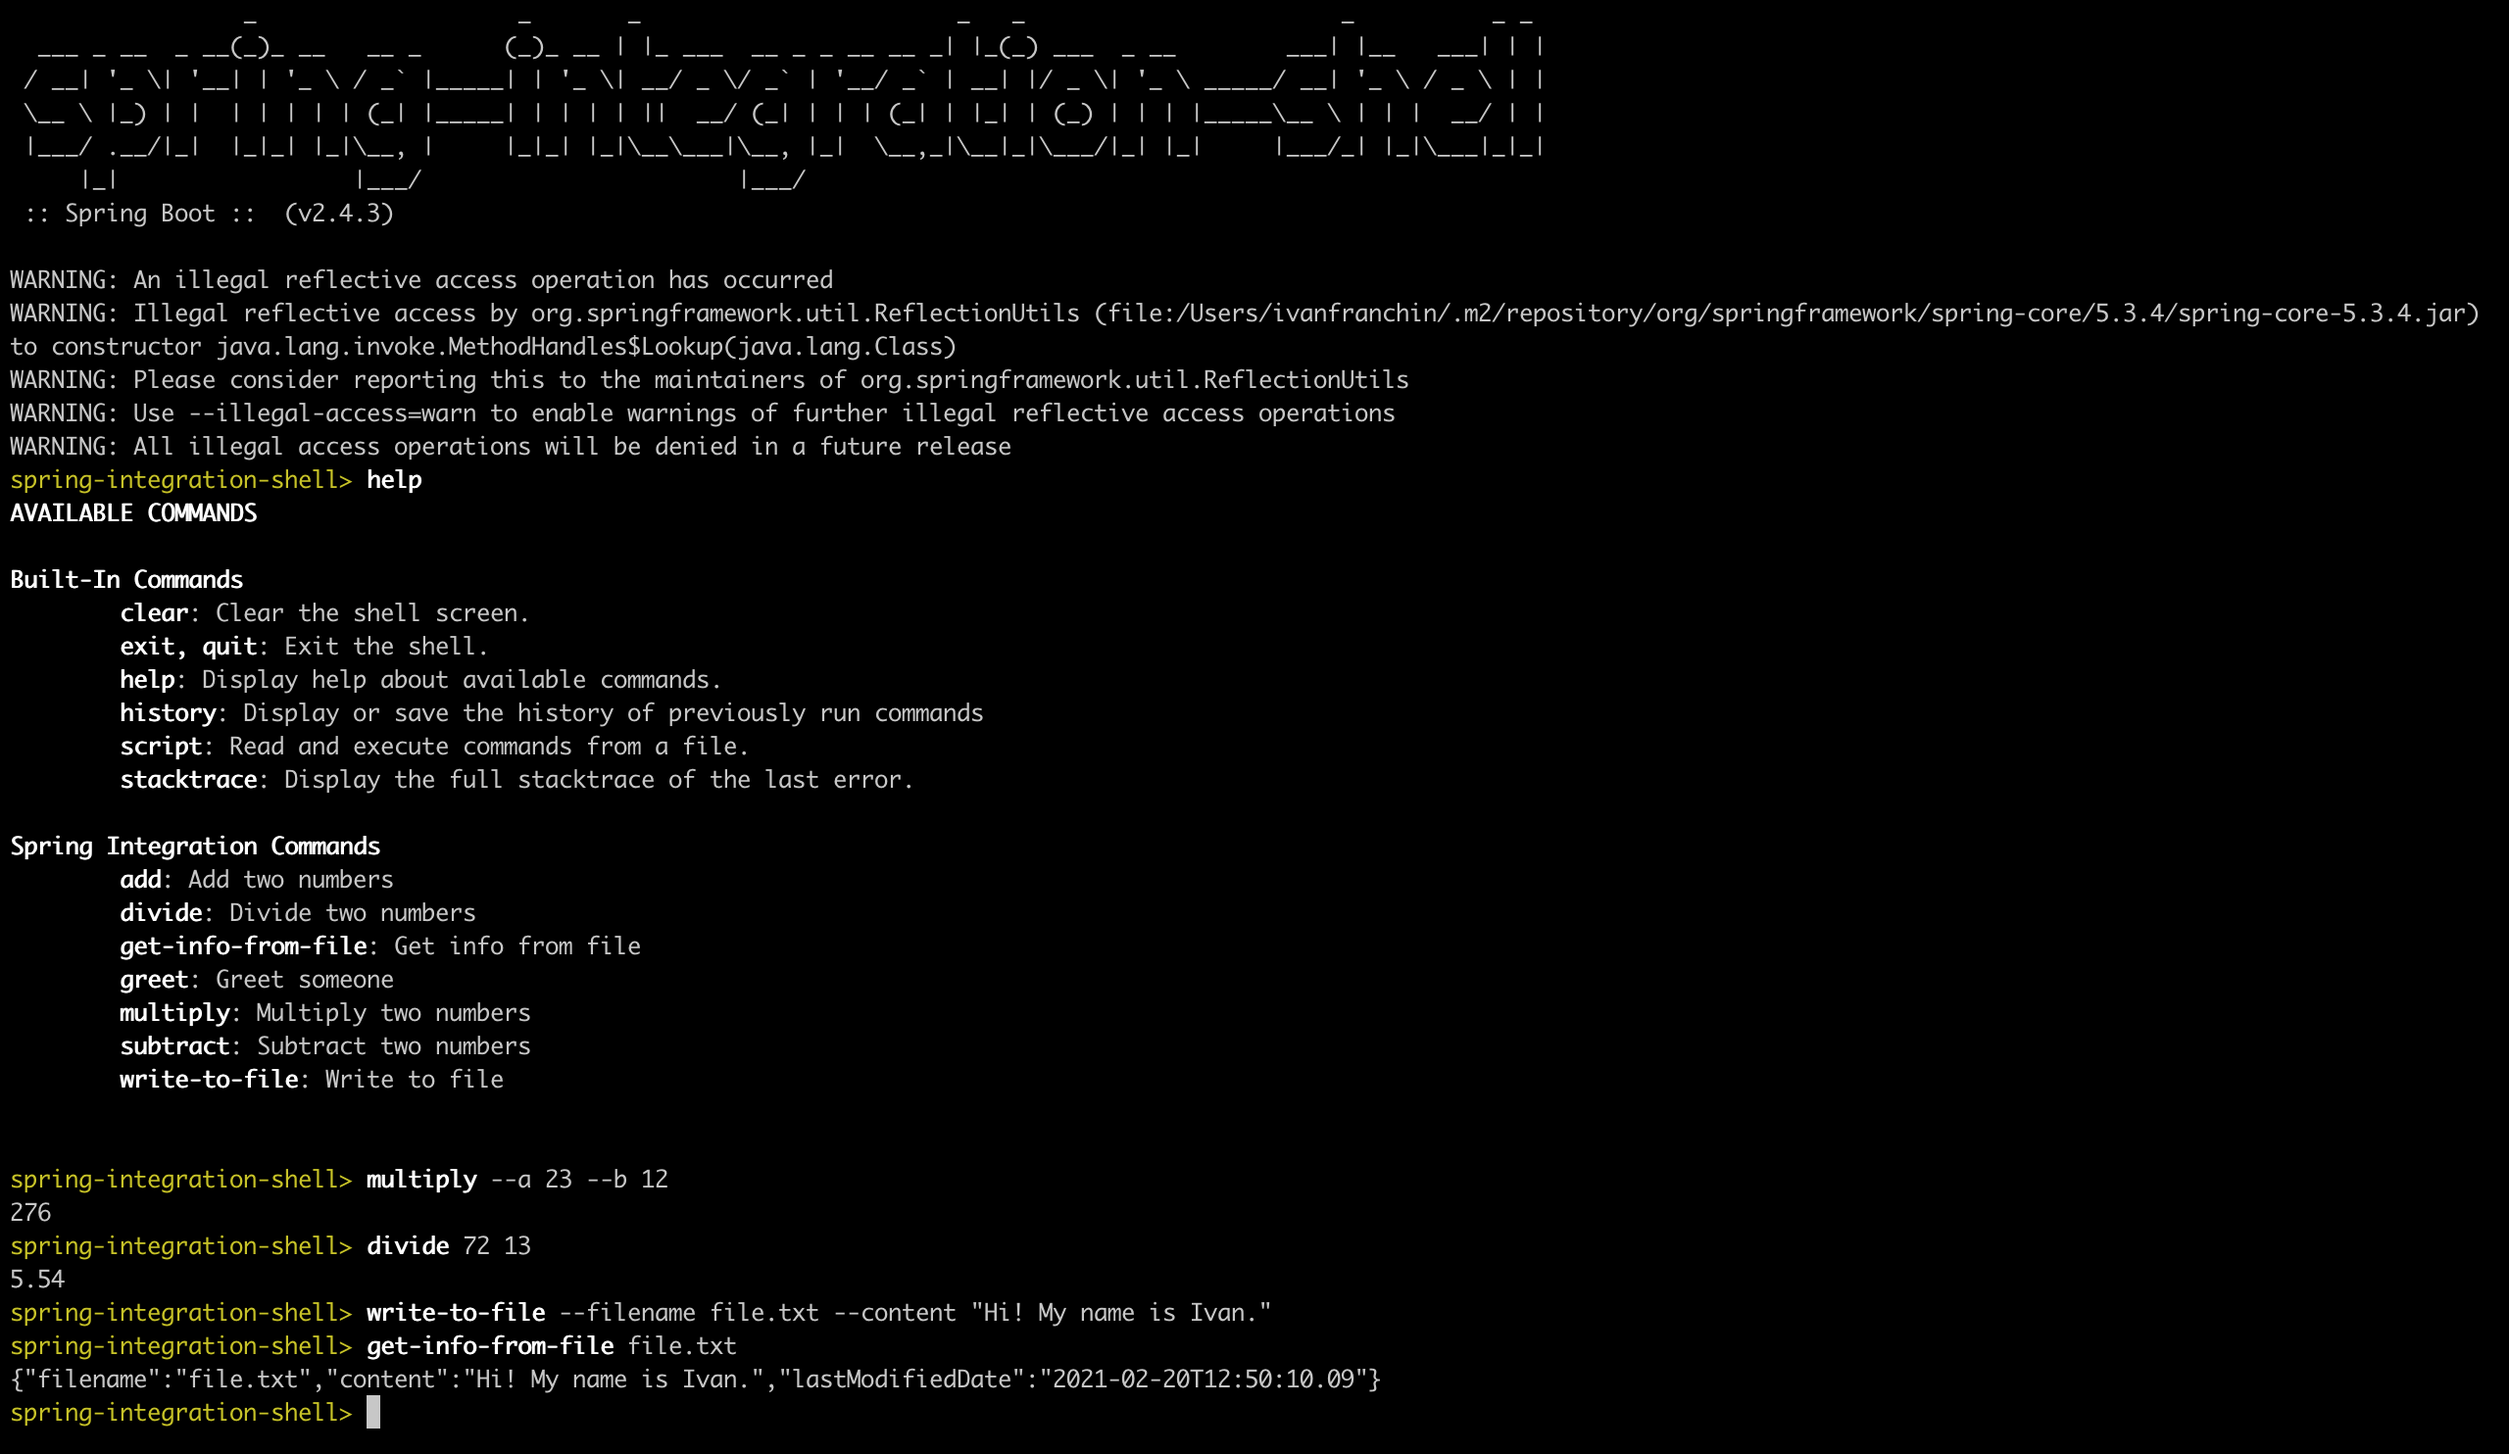
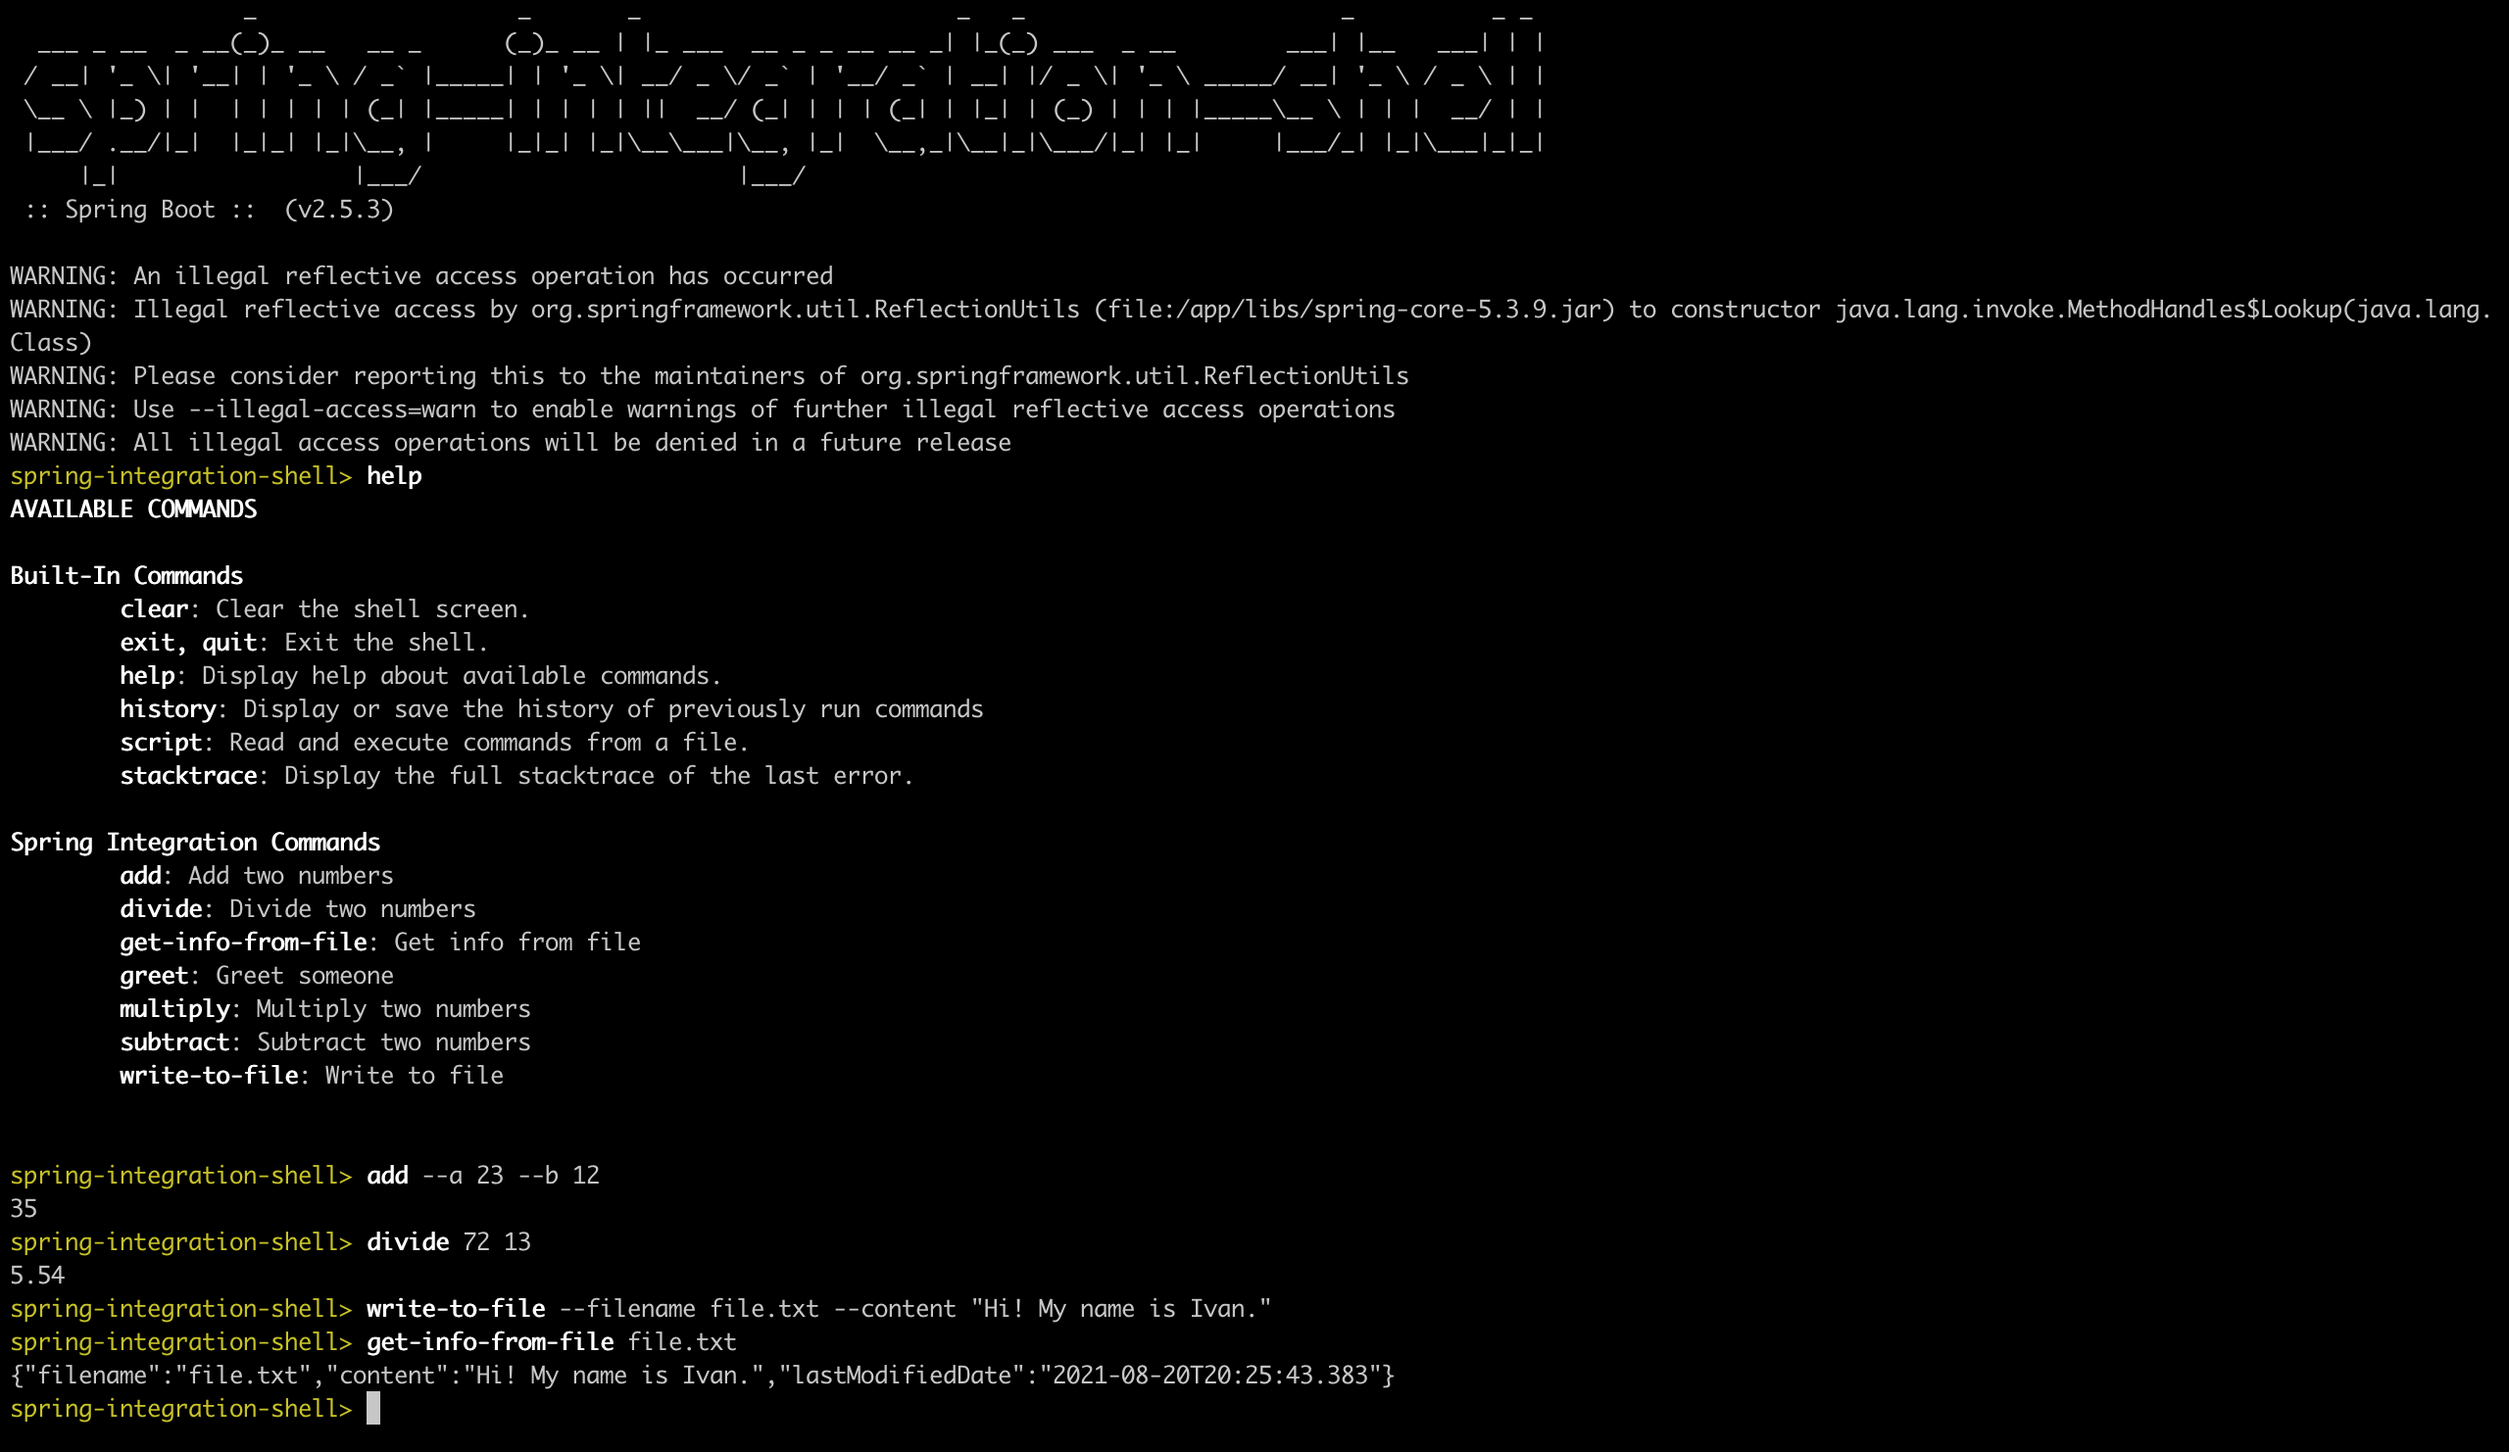
project update - dockerized applications; - update to spring-boot 2.5.3; - update to spring-web 5.3.9; - update to jackson-databind 2.12.4; - convert application.yml files to application.properties; - update .gitignore; - update README.

diff --git a/file-service/src/main/java/com/mycompany/fileservice/integration/IntegrationConfig.java b/file-service/src/main/java/com/mycompany/fileservice/integration/IntegrationConfig.java
@@ -1,5 +1,7 @@
 package com.mycompany.fileservice.integration;
 
+import java.io.File;
+import lombok.extern.slf4j.Slf4j;
 import org.springframework.beans.factory.annotation.Value;
 import org.springframework.context.annotation.Bean;
 import org.springframework.context.annotation.Configuration;
@@ -15,8 +17,7 @@ import org.springframework.integration.file.filters.SimplePatternFileListFilter;
 import org.springframework.integration.file.transformer.FileToStringTransformer;
 import org.springframework.messaging.MessageChannel;
 
-import java.io.File;
-
+@Slf4j
 @Configuration
 @EnableIntegration
 public class IntegrationConfig {
@@ -32,8 +33,11 @@ public class IntegrationConfig {
     @Bean
     @InboundChannelAdapter(value = "fileInputChannel", poller = @Poller(fixedDelay = "1000"))
     MessageSource<File> fileReadingMessageSource() {
+        File directory = new File(inboundPath);
+        log.info("Application Inbound Path is \"{}\"", directory);
+
         FileReadingMessageSource fileReadingMessageSource = new FileReadingMessageSource();
-        fileReadingMessageSource.setDirectory(new File(inboundPath));
+        fileReadingMessageSource.setDirectory(directory);
         fileReadingMessageSource.setFilter(new SimplePatternFileListFilter("*.txt"));
         fileReadingMessageSource.setUseWatchService(true);
         fileReadingMessageSource.setWatchEvents(WatchEventType.CREATE, WatchEventType.MODIFY);

diff --git a/README.md b/README.md
@@ -10,7 +10,7 @@ The goal of this project is to learn [`String Integration Framework`](https://do
 
 - ### calculator-api
 
-  `Spring Boot` Java Web application that exposes an endpoint so that users can submit which operation (addition, subtraction, division or multiplication) they want to perform over two decimal numbers `a` and `b`.
+  `Spring Boot` Java Web application that exposes an endpoint so that users can submit the operation (addition, subtraction, division or multiplication) they want to perform over two decimal numbers `a` and `b`.
   
   ```
   POST /api/calculate -d { "a": number, "b": number, "operation": ["ADD" | "SUBTRACT" | "DIVIDE" | "MULTIPLY"] }
@@ -18,7 +18,7 @@ The goal of this project is to learn [`String Integration Framework`](https://do
   
 - ### file-service
 
-  `Spring Boot` Java Web application that exposes an endpoint so that users can get information about a file. This service keeps looking at `shared-integration-files` folder for new created or modified files and save their content and info in [`MongoDB`](https://www.mongodb.com/).
+  `Spring Boot` Java Web application that exposes an endpoint so that users can get information about a file. This service keeps looking at `shared/files` folder for created or modified files and save their content and info in [`MongoDB`](https://www.mongodb.com/).
   
   ```
   GET api/files/{filename}
@@ -26,7 +26,7 @@ The goal of this project is to learn [`String Integration Framework`](https://do
 
 - ### spring-integration-shell
 
-  `Spring Boot Shell` Java application that has a couple of commands. One is to write some content to a file. Those files are stored in `shared-integration-files` folder. Besides, there are some commands that uses `calculator-api` to compute the basic Math operations. There is also has a command that calls `file-service` in order to get information about a file. All the communication with `calculator-api` and `file-service` is over `HTTP`. Finally, there is a simple command called `greet`, so that you can display a greeting message on the screen depending on the time of the day.
+  `Spring Boot Shell` Java application that has a couple of commands. One is to write some content to a file. Those files are stored in `shared/files` folder. Besides, there are some commands that uses `calculator-api` to compute the basic Math operations. There is also has a command that calls `file-service` in order to get information about a file. All the communication with `calculator-api` and `file-service` is over `HTTP`. Finally, there is a simple command called `greet`, so that you can display a greeting message on the screen depending on the time of the day.
 
 ## Prerequisites
 
@@ -43,32 +43,20 @@ The goal of this project is to learn [`String Integration Framework`](https://do
   docker-compose up -d
   ```
 
-## Running Applications
+## Running Applications with Maven
 
 - **calculator-api**
 
   In a terminal and inside `spring-integration-examples` run
   ```
-  ./mvnw clean spring-boot:run --projects calculator-api -Dspring-boot.run.jvmArguments="-Dserver.port=9080"
-  ```
-
-  A call sample to `calculator-api`
-  ```
-  curl -i -X POST http://localhost:9080/api/calculate \
-    -H 'Content-Type: application/json' \
-    -d '{"operation": "ADD", "a": 10, "b": 12}'
+  ./mvnw clean spring-boot:run --projects calculator-api
   ```
 
 - **file-service**
 
   Open a new terminal and inside `spring-integration-examples` run
   ```
-  ./mvnw clean spring-boot:run --projects file-service -Dspring-boot.run.jvmArguments="-Dserver.port=9081"
-  ```
-
-  A call sample to `file-service`
-  ```
-  curl -i http://localhost:9081/api/files/file.txt
+  ./mvnw clean spring-boot:run --projects file-service
   ```
 
 - **spring-integration-shell**
@@ -77,11 +65,76 @@ The goal of this project is to learn [`String Integration Framework`](https://do
   ```
   ./mvnw clean spring-boot:run --projects spring-integration-shell
   ```
-    
-  The shell interface and an execution sample
+
+## Run applications as Docker containers
+
+- ### Build Docker Images
+
+  - In a terminal, make sure you are in `spring-integration-examples` root folder
+  - Run the following script to build the Docker images
+    - JVM
+      ```
+      ./docker-build.sh
+      ```
+    - Native (it's not implemented yet)
+      ```
+      ./docker-build.sh native
+      ```
+
+- ### Environment Variables
+
+  - **calculator-api**
+
+    `None`
+
+  - **file-service**
+
+    | Environment Variable | Description                                                         |
+    | -------------------- | ------------------------------------------------------------------- |
+    | `MONGODB_HOST`       | Specify host of the `MongoDB` database to use (default `localhost`) |
+    | `MONGODB_PORT `      | Specify port of the `MongoDB` database to use (default `27017`)     |
+
+  - **spring-integration-shell**
+
+    | Environment Variable  | Description                                                       |
+    | --------------------- | ----------------------------------------------------------------- |
+    | `CALCULATOR_API_HOST` | Specify host of the `calculator-api` to use (default `localhost`) |
+    | `CALCULATOR_API_PORT` | Specify port of the `calculator-api` to use (default `9080`)      |
+    | `FILE_SERVICE_HOST`   | Specify host of the `file-service` to use (default `localhost`)   |
+    | `FILE_SERVICE_PORT`   | Specify port of the `file-service` to use (default `9081`)        |
+
+- ### Start Docker Containers
+
+  - In a terminal, make sure you are inside `spring-integration-examples` root folder
+  - Run following command
+    ```
+    ./start-services.sh && ./start-shell.sh
+    ```
+
+## Playing around
+
+- **calculator-api**
+
+  A sample of request to add two numbers
+  ```
+  curl -i -X POST http://localhost:9080/api/calculate \
+    -H 'Content-Type: application/json' \
+    -d '{"operation": "ADD", "a": 10, "b": 12}'
+  ```
+
+- **file-service**
+
+  A sample of request to get information about a file
+  ```
+  curl -i http://localhost:9081/api/files/file.txt
+  ```
+
+- **spring-integration-shell**
+
+  The `spring-integration-shell` UI and a sample of execution
 
   ![spring-integration-shell](images/spring-integration-shell.png)
-  
+
 ## Useful Commands
 
 - **MongoDB**
@@ -96,12 +149,24 @@ The goal of this project is to learn [`String Integration Framework`](https://do
 
 ## Shutdown
 
-- Go to `spring-integration-shell` terminal and type `exit`
-- Go to `calculator-api` and `file-service` terminals and press `Ctrl+C`
-- To stop and remove `MongoDB` and docker-compose network, run
+- To stop `spring-integration-shell`, go to the terminal where it is running and type `exit`
+- To stop `calculator-api` and `file-service`
+  - If you start them with `Maven`, go to the terminals were they are running and press `Ctrl+C`
+  - If you start them as Docker containers, go to a terminal and, inside `spring-integration-examples` root folder, run the following script
+    ```
+    ./stop-services.sh
+    ```
+- To stop and remove `MongoDB` and docker-compose network, go to a terminal and, inside `spring-integration-examples` root folder, run the command below
   ```
   docker-compose down -v
   ```
+
+## Cleanup
+
+To remove the Docker images created by this project, go to a terminal and, inside `spring-integration-examples` root folder, run the following script
+```
+./remove-docker-images.sh
+```
 
 ## References
 
